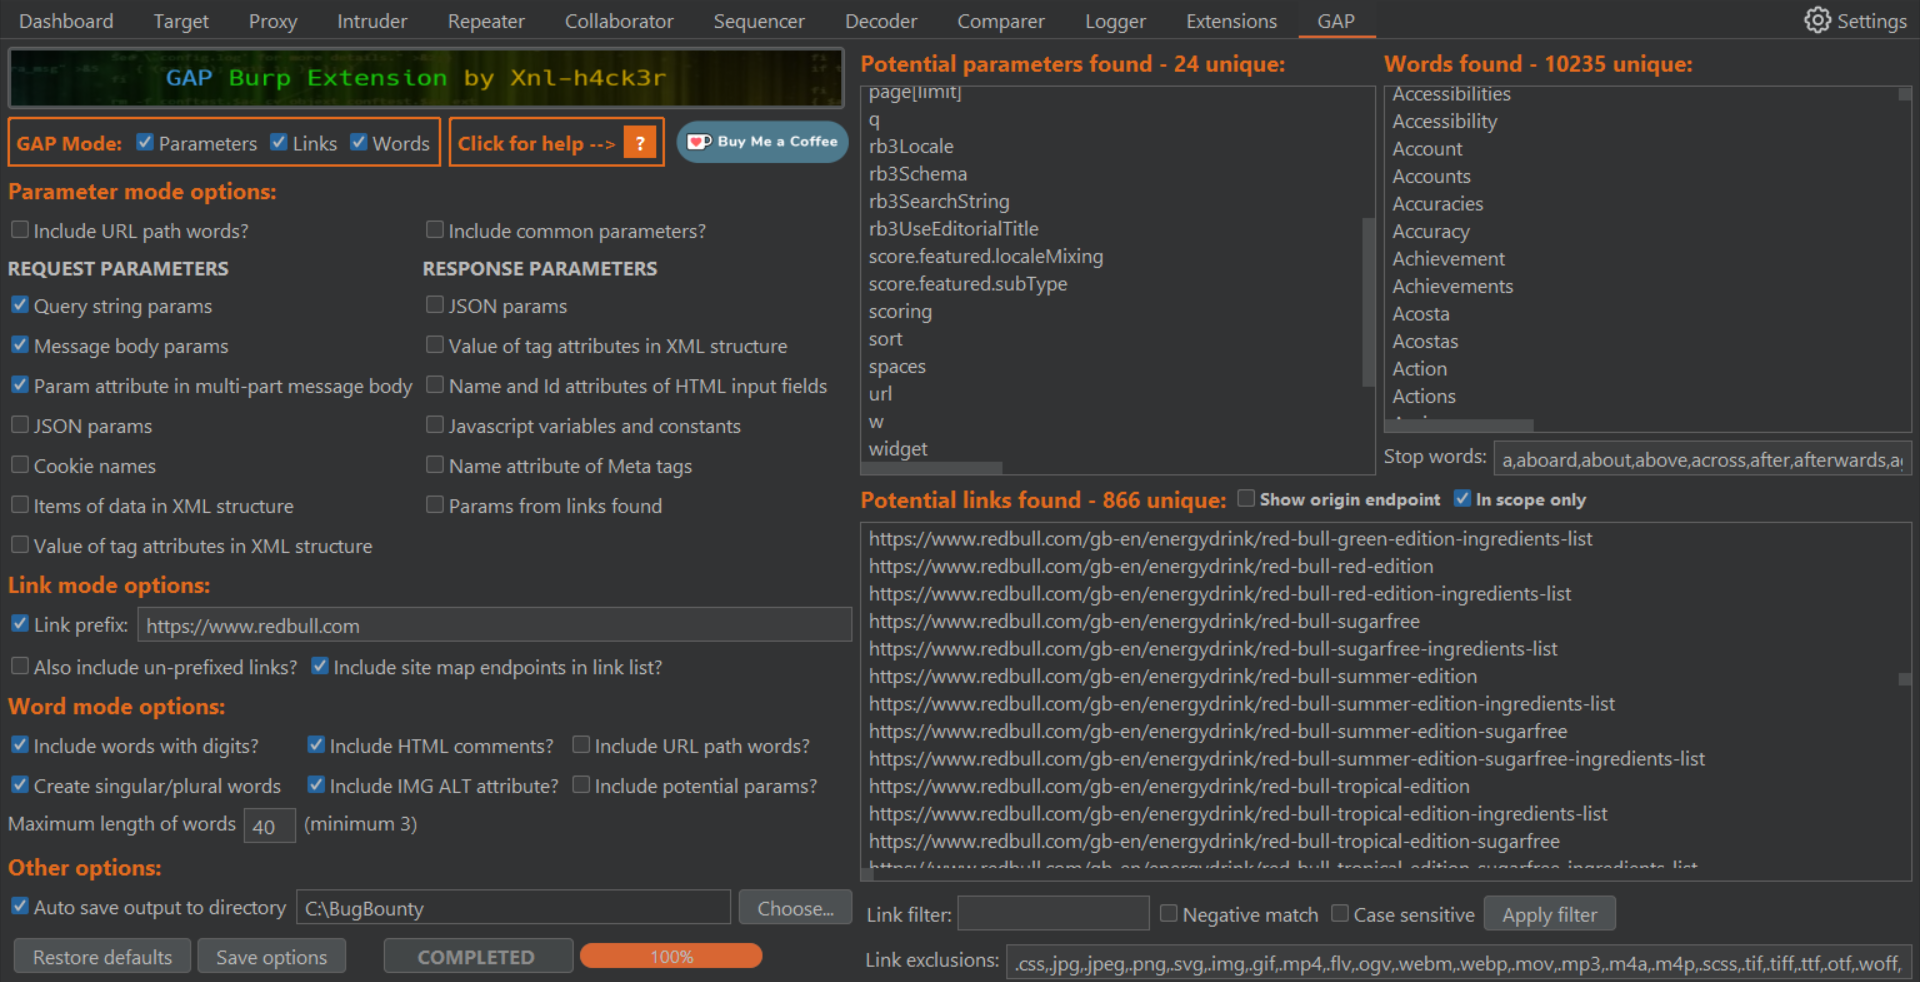
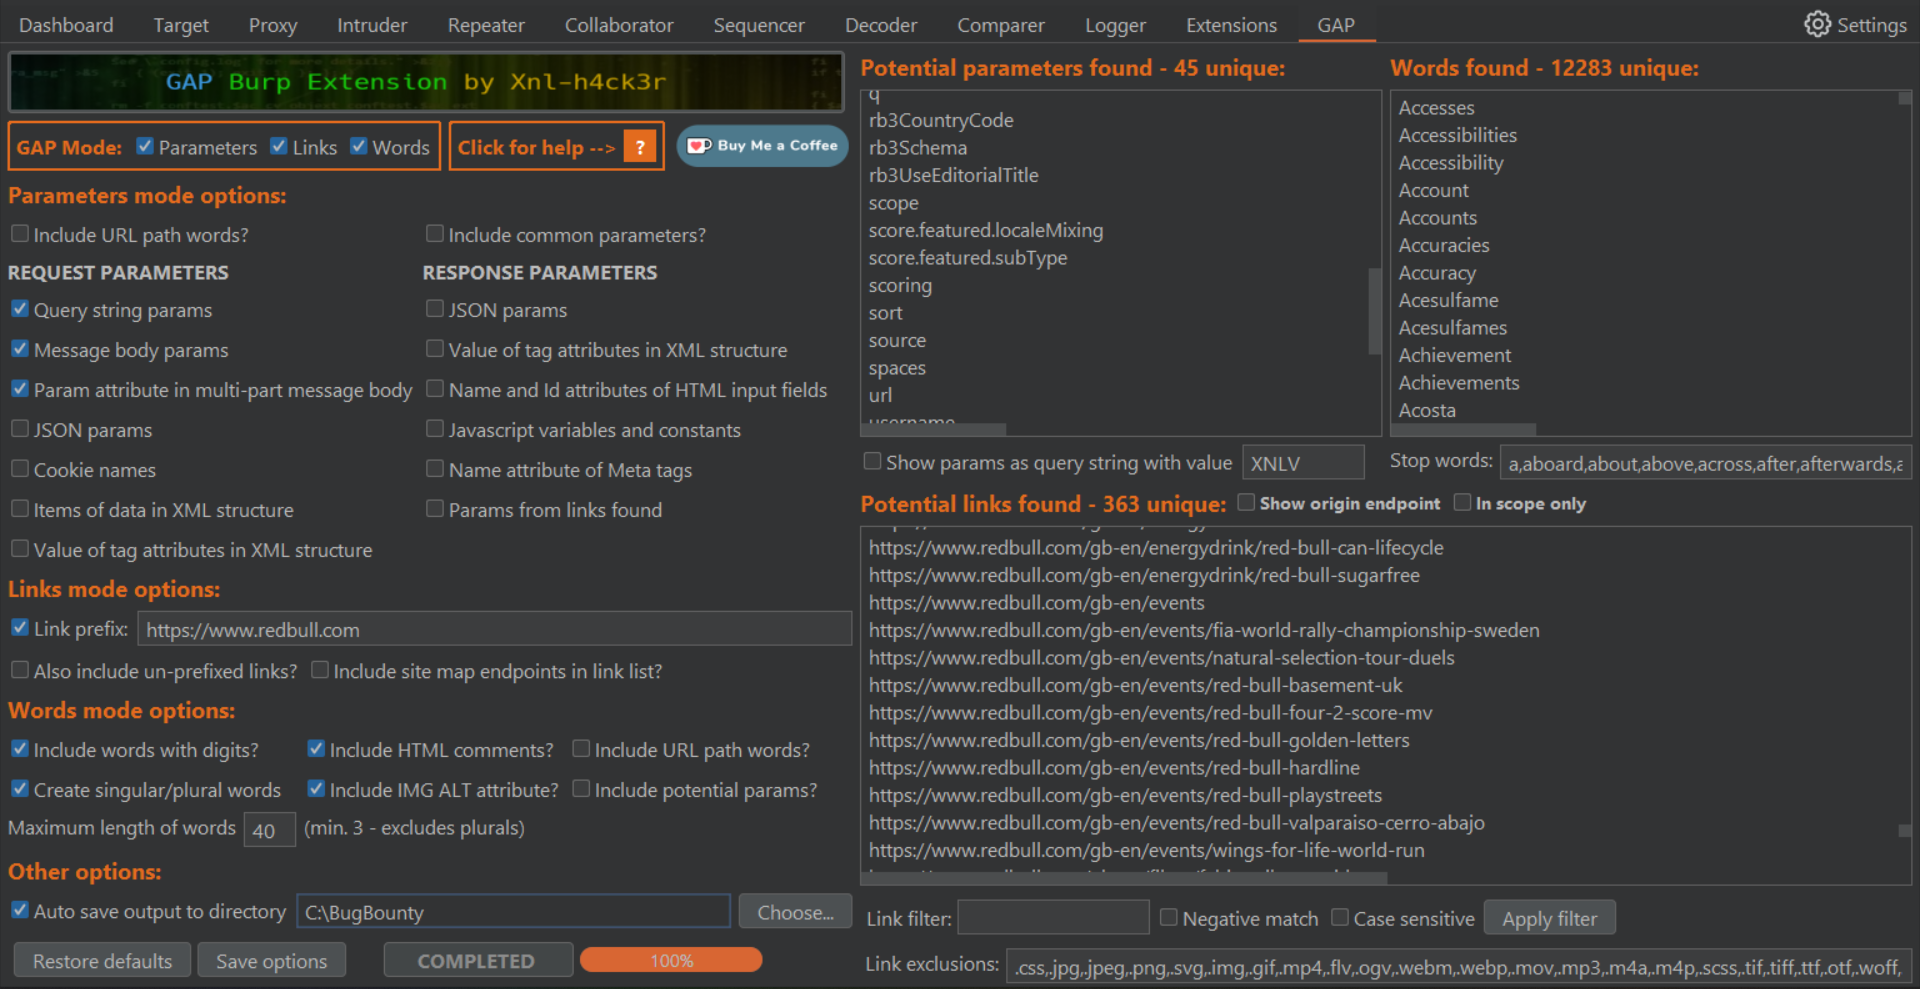
v2.3 - see CHANGELOG.md

diff --git a/GAP.py b/GAP.py
@@ -8,7 +8,7 @@ Get full instructions at https://github.com/xnl-h4ck3r/GAP-Burp-Extension/blob/m
 
 Good luck and good hunting! If you really love the tool (or any others), or they helped you find an awesome bounty, consider BUYING ME A COFFEE! (https://ko-fi.com/xnlh4ck3r) (I could use the caffeine!)
 """
-VERSION="2.2"
+VERSION="2.3"
 
 from burp import IBurpExtender, IContextMenuFactory, IScopeChangeListener, ITab
 from javax.swing import (
@@ -145,6 +145,9 @@ DEFAULT_EXCLUSIONS = ".css,.jpg,.jpeg,.png,.svg,.img,.gif,.mp4,.flv,.ogv,.webm,.
 # A comma separated list of Content-Type exclusions used to determine what requests are checked for potential links
 # These content types will NOT be checked
 CONTENTTYPE_EXCLUSIONS = "text/css,image/jpeg,image/jpg,image/png,image/svg+xml,image/gif,image/tiff,image/webp,image/bmp,image/x-icon,image/vnd.microsoft.icon,font/ttf,font/woff,font/woff2,font/x-woff2,font/x-woff,font/otf,audio/mpeg,audio/wav,audio/webm,audio/aac,audio/ogg,audio/wav,audio/webm,video/mp4,video/mpeg,video/webm,video/ogg,video/mp2t,video/webm,video/x-msvideo,application/font-woff,application/font-woff2,application/vnd.android.package-archive,binary/octet-stream,application/octet-stream,application/pdf,application/x-font-ttf,application/x-font-otf,application/x-font-woff,application/vnd.ms-fontobject,image/avif"
+
+# The default value (used until options are saved, or when the "Restore defaults" button is pressed) for the generated query string of all parameters.
+DEFAULT_QSV = "XNLV"
 
 # A list of files used in the Link Finding Regex. These are used in the 5th capturing group that aren't obvious links, but could be files
 LINK_REGEX_FILES = "php|php3|php5|asp|aspx|ashx|cfm|cgi|pl|jsp|jspx|json|js|action|html|xhtml|htm|bak|do|txt|wsdl|wadl|xml|xls|xlsx|bin|conf|config|bz2|bzip2|gzip|tar\.gz|tgz|log|src|zip|js\.map"
@@ -474,7 +477,13 @@ class BurpExtender(IBurpExtender, IContextMenuFactory, ITab):
         self.btnChooseDir = JButton(
             "Choose...", actionPerformed=self.btnChooseDir_clicked
         )
-
+        self.cbShowQueryString = self.defineCheckBox(
+            "Show params as query string with value", False
+        )
+        self.cbShowQueryString.addItemListener(self.cbShowQueryString_clicked)
+        self.lblQueryStringVal = JLabel("Concatenated param value")
+        self.inQueryStringVal = JTextField(6)
+        
         # The Restore/Save section
         self.btnSave = JButton("Save options", actionPerformed=self.btnSave_clicked)
         self.btnRestoreDefaults = JButton(
@@ -519,7 +528,10 @@ class BurpExtender(IBurpExtender, IContextMenuFactory, ITab):
         self.scroll_outParamList.setHorizontalScrollBarPolicy(
             ScrollPaneConstants.HORIZONTAL_SCROLLBAR_AS_NEEDED
         )
-
+        self.outParamQuery = JTextArea(30, 100)
+        self.outParamQuery.setLineWrap(True)
+        self.outParamQuery.setEditable(False)
+        
         # Potential links found section
         self.lblLinkList = JLabel("Potential links found:")
         self.lblLinkList.setFont(FONT_HEADER)
@@ -726,6 +738,16 @@ class BurpExtender(IBurpExtender, IContextMenuFactory, ITab):
                             layout.createParallelGroup()
                             .addComponent(self.lblParamList)
                             .addComponent(self.scroll_outParamList)
+                            .addGroup(
+                                layout.createSequentialGroup()
+                                .addComponent(self.cbShowQueryString)
+                                .addComponent(
+                                    self.inQueryStringVal,
+                                    GroupLayout.PREFERRED_SIZE,
+                                    GroupLayout.PREFERRED_SIZE,
+                                    GroupLayout.PREFERRED_SIZE,
+                                )
+                            )
                         )
                         .addGroup(
                             layout.createParallelGroup()
@@ -899,6 +921,16 @@ class BurpExtender(IBurpExtender, IContextMenuFactory, ITab):
                                 GroupLayout.DEFAULT_SIZE,
                                 GroupLayout.DEFAULT_SIZE,
                             )
+                            .addGroup(
+                                layout.createParallelGroup()
+                                .addComponent(self.cbShowQueryString)
+                                .addComponent(
+                                    self.inQueryStringVal,
+                                    GroupLayout.PREFERRED_SIZE,
+                                    GroupLayout.PREFERRED_SIZE,
+                                    GroupLayout.PREFERRED_SIZE,
+                                )
+                            )
                         )
                         .addGroup(
                             layout.createSequentialGroup()
@@ -978,19 +1010,27 @@ class BurpExtender(IBurpExtender, IContextMenuFactory, ITab):
         if self.cbParamsEnabled.isSelected():
             self.setEnabledParamOptions(True)
             self.lblParamList.visible = True
+            if self.cbShowQueryString.isSelected():
+                self.scroll_outParamList.setViewportView(self.outParamQuery)
+            else:
+                self.scroll_outParamList.setViewportView(self.outParamList)
             self.scroll_outParamList.visible = True
+            self.cbShowQueryString.visible = True
+            self.inQueryStringVal.visible = True
             # Also remove the word option "Include potential parameters"
             self.cbWordParams.visible = True
         else:
             self.setEnabledParamOptions(False)
             self.lblParamList.visible = False
             self.scroll_outParamList.visible = False
+            self.cbShowQueryString.visible = False
+            self.inQueryStringVal.visible = False
             # If no other mode is selected, reselect Links
             if not self.cbLinksEnabled.isSelected() and not self.cbWordsEnabled.isSelected():
                 self.cbLinksEnabled.setSelected(True)
             # Also show the word option "Include potential parameters"
             self.cbWordParams.visible = False
-
+            
     def cbLinksEnabled_clicked(self, e=None):
         """
         The event called when the "Links" check box is clicked
@@ -1016,7 +1056,7 @@ class BurpExtender(IBurpExtender, IContextMenuFactory, ITab):
             # If no other mode is selected, reselect Params
             if not self.cbParamsEnabled.isSelected() and not self.cbWordsEnabled.isSelected():
                 self.cbParamsEnabled.setSelected(True)
-
+            
     def cbWordsEnabled_clicked(self, e=None):
         """
         The event called when the "Words" check box is clicked
@@ -1119,6 +1159,16 @@ class BurpExtender(IBurpExtender, IContextMenuFactory, ITab):
         # Reposition the display of the Link list to the start
         self.outLinkList.setCaretPosition(0)
 
+    def cbShowQueryString_clicked(self, e=None):
+        """
+        The event called when the "Show parameters as concatenated query string" checkbox is changed
+        """
+        # Show the parameter list or query string depending on the option selected
+        if self.cbShowQueryString.isSelected():
+            self.scroll_outParamList.setViewportView(self.outParamQuery)
+        else:
+            self.scroll_outParamList.setViewportView(self.outParamList)
+        
     def btnHelp_clicked(self, e=None):
         """
         The event when the help icon is pressed. Try to display the Help page, but if the URL can't be reached, show a 404 message
@@ -1199,6 +1249,9 @@ class BurpExtender(IBurpExtender, IContextMenuFactory, ITab):
             self.cbParamCookie.setEnabled(enabled)
             self.cbParamXml.setEnabled(enabled)
             self.cbParamXmlAttr.setEnabled(enabled)
+            self.lblQueryStringVal.setEnabled(enabled)
+            self.cbShowQueryString.setEnabled(enabled)
+            self.inQueryStringVal.setEnabled(enabled)
             self.cbIncludeCommonParams.setEnabled(enabled)
             self.cbIncludePathWords.setEnabled(enabled)
             self.lblResponseParams.setEnabled(enabled)
@@ -1528,6 +1581,10 @@ class BurpExtender(IBurpExtender, IContextMenuFactory, ITab):
                 self.cbParamCookie.setSelected(config["paramCookie"])
                 self.cbParamXml.setSelected(config["paramXml"])
                 self.cbParamXmlAttr.setSelected(config["paramXmlAttr"])
+                try:
+                    self.inQueryStringVal.text = config["queryStringVal"]
+                except:
+                    self.inQueryStringVal.text = DEFAULT_QSV
                 self.cbIncludeCommonParams.setSelected(config["includeCommonParams"])
                 self.cbIncludePathWords.setSelected(config["includePathWords"])
                 self.cbParamJSONResponse.setSelected(config["paramJsonResponse"])
@@ -1579,6 +1636,10 @@ class BurpExtender(IBurpExtender, IContextMenuFactory, ITab):
             if self.inExclusions.text == "":
                 self.inExclusions.text = DEFAULT_EXCLUSIONS
             
+            # If the query string param value doesn't exist, set it to the default
+            if self.inQueryStringVal.text == "":
+                self.inQueryStringVal.text = DEFAULT_QSV
+            
             # if the stop words setting doesn't exist, set it to default
             if self.inStopWords.text == "":
                 self.inStopWords.text = DEFAULT_STOP_WORDS
@@ -1614,6 +1675,8 @@ class BurpExtender(IBurpExtender, IContextMenuFactory, ITab):
         self.cbParamCookie.setSelected(False)
         self.cbParamXml.setSelected(False)
         self.cbParamXmlAttr.setSelected(False)
+        self.cbShowQueryString.setSelected(False)
+        self.inQueryStringVal.text = DEFAULT_QSV
         self.cbIncludeCommonParams.setSelected(True)
         self.cbIncludePathWords.setSelected(False)
         self.cbParamJSVars.setSelected(False)
@@ -2214,15 +2277,40 @@ class BurpExtender(IBurpExtender, IContextMenuFactory, ITab):
                 self.lblParamList.text = (
                     "Potential parameters found - UPDATING, PLEASE WAIT..."
                 )
-                self.outParamList.text = "\n".join(sorted(self.param_list))
+
+                # Loop through all parameters and build a list and query string
+                allParamsList = ""
+                allParamsQuery = ""
+                for param in sorted(self.param_list):
+                    self.checkIfCancel()
+                    try:
+                        if len(param) > 0:
+                            allParamsList = allParamsList + param + "\n"
+            
+                            # Build a list of parameters in a concatenated string with unique values
+                            allParamsQuery = allParamsQuery + param + "=" + self.inQueryStringVal.text + str(index) + "&"
+                            index += 1
+                    except Exception as e:
+                        self._stderr.println("displayParams 2")
+                        self._stderr.println(e)
+                        
+                if allParamsList == "":
+                    self.outParamList.text = "NO PARAMETERS FOUND"
+                    self.outParamQuery.text = "NO PARAMETERS FOUND"
+                else:
+                    self.outParamList.text = allParamsList
+                    self.outParamQuery.text = allParamsQuery.rstrip('&')
+            
+                # Show the version that is selected
+                if self.cbShowQueryString.isSelected():
+                    self.scroll_outParamList.setViewportView(self.outParamQuery)
+                else:
+                    self.scroll_outParamList.setViewportView(self.outParamList)                    
+                
                 index = len(self.param_list)
                 self.lblParamList.text = (
                     "Potential parameters found - " + str(index) + " unique:"
                 )
-
-                # If no parameters were found, write that in the text box
-                if self.outParamList.text == "":
-                    self.outParamList.text = "NO PARAMETERS FOUND"
 
             # Write the parameters to a file if required
             self.checkIfCancel()
@@ -2805,10 +2893,11 @@ class BurpExtender(IBurpExtender, IContextMenuFactory, ITab):
                                     end = 1
                                 link = link[start:-end]
 
-                            # If there are any trailing back slashes, ; or >; remove them all
+                            # If there are any trailing back slashes, comma, ; or >; remove them all
                             link = link.rstrip("\\")
                             link = link.rstrip(">;")
                             link = link.rstrip(";")
+                            link = link.rstrip(",")
                             
                             # If there are any backticks in the URL, remove everything from the backtick onwards
                             link = link.split("`")[0]

diff --git a/GAP Help.md b/GAP Help.md
@@ -107,6 +107,8 @@ Below is an explanation of the output given when GAP has completed running.
 <h2>Potential Parameters</h2>
 <ul>
 <li><b>Potential parameters found</b> - This text are will show all unique potential parameters, one per line.</li>
+<li><b>Show params as query string with value</b> - This checkbox can be used to switch between the list of parameters and a concatenated query string with all parameters with a value given in the following text box.</li>
+<li><b>Param Value</b> - This defaults to XNLV and is a value that is used to create the concatenated query string, with each parameter given this value followed by a unique number of the parameter. This query string can be used to manually append to a URL and check for reflections.</li>
 </ul>
 <h2>Potential Links</h2>
 <ul>

diff --git a/README.md b/README.md
@@ -1,6 +1,6 @@
 <center><img src="https://raw.githubusercontent.com/xnl-h4ck3r/GAP-Burp-Extension/main/GAP/images/title.png"></center>
 
-## About - v2.2
+## About - v2.3
 
 This is an evolution of the original getAllParams extension for Burp. Not only does it find more potential parameters for you to investigate, but it also finds potential links to try these parameters on, and produces a target specific wordlist to use for fuzzing.
 The full Help documentation can be found [here] (https://github.com/xnl-h4ck3r/burp-extensions/blob/main/GAP%20Help.md) or from the Help icon on the GAP tab.

diff --git a/CHANGELOG.md b/CHANGELOG.md
@@ -1,5 +1,11 @@
 ## Changelog
 
+- v2.3
+
+  - New
+
+    - Re-introduce the option of viewing parameters in a concatenated query string. There is now a check box below the parameter list that can be used to switch views.
+
 - v2.2
 
   - Changed
